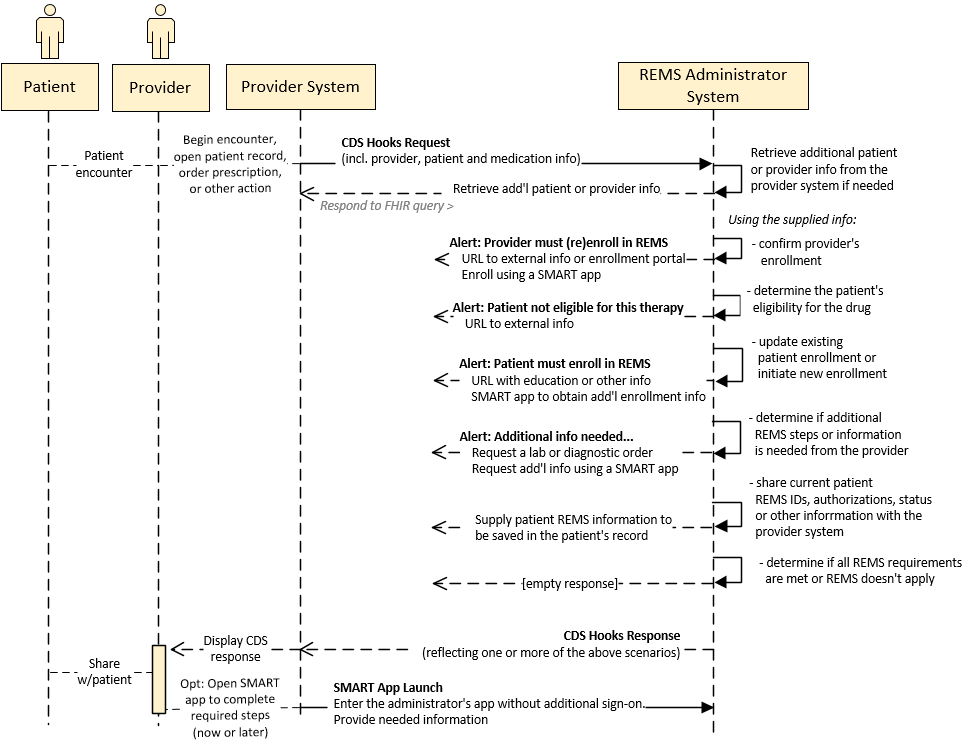
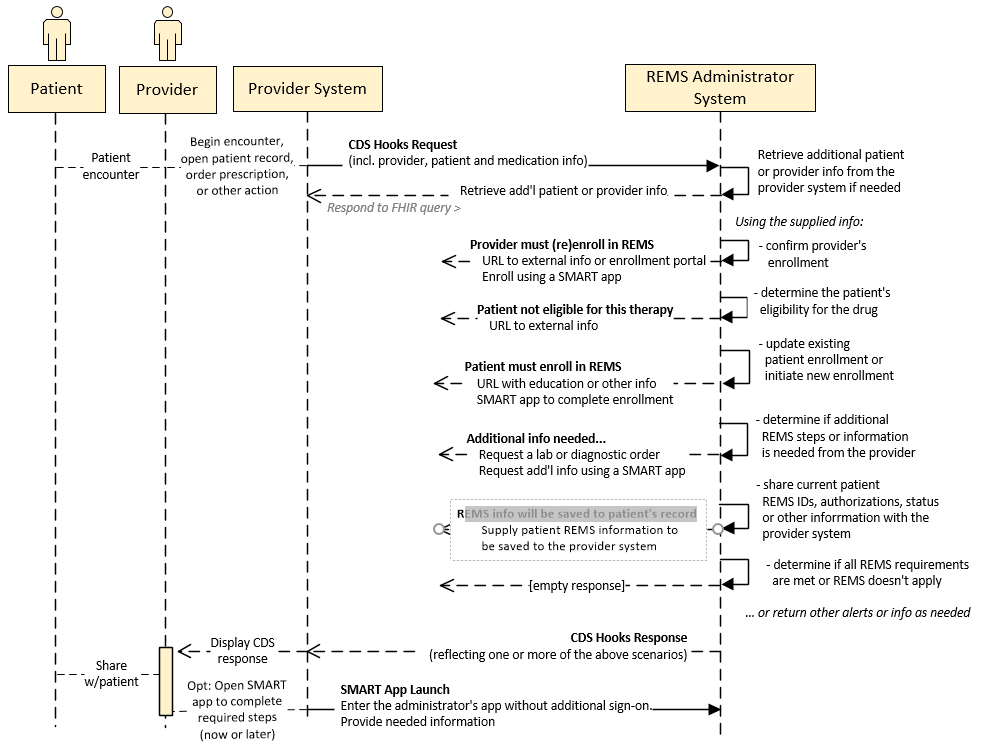
Use case edits

Changed region(s): [[0.0, 0.0, 0.9826, 1.0]]

diff --git a/input/pagecontent/use-cases.md b/input/pagecontent/use-cases.md
@@ -2,14 +2,24 @@ _See [Participant Roles and Needs](roles.html) for descriptions of the actors an
 
 <p></p>
 
-#### Note Regarding REMS Program and Scenario Variations
-REMS programs impose differing requirements on providers and patients. In some cases, patients must enroll in the program and assert their understanding of the potential medication risks and commit to certain behaviors before starting treatment. Other REMS programs are limited to providing educational information to the patient. Others require prescriber training and certification.
+### Use Case Context
+The use case scenarios described in this section reflect a range of REMS program requirements and treatment situations and two different system contexts, as described below.
 
-Likewise, the needs of a particular treatment situation may differ from others. For example, the applicable REMS program may require providers to train and certify before prescribing the medication, but the particular prescriber previously completed those steps through an offline process.
+#### REMS Program Requirements and Variations
+REMS requirements for providers, patients and other participants differ by drug:
+- In some cases, patients must enroll in the program and assert their understanding of the potential medication risks and commit to certain behaviors before starting treatment. 
+- Other REMS programs are limited to providing educational information to the patient. 
+- Some, but not all, REMS programs require prescribers or pharmacists to complete training and enrollment steps before treating a patient with the drug.
+- Some REMS programs require labs or other diagnostics to be performed prior to or during treatment.
+- REMS programs require varying levels of coordination with the REMS Administrator on treatment activities.
 
-The scenario descriptions in this section include aspects that won't apply to all REMS programs or treatment situations. The corresponding FHIR approaches are intended to be applied if and when they fit a particular medication's program.
+In addition, real world treatment situations can differ due to other factors. For example: 
+- One prescriber may complete their training and enrollment for a REMS program through an offline process in advance of treating patients with the drug, versus another prescriber that learns of the enrollment requirement while prescribing the drug the first time
+- REMS requirements that apply when starting the patient's initial therapy may or may not be required during subsequent rounds of therapy.
 
-#### System Contexts
+As a result, the scenario descriptions in this section will include aspects that don't apply to all REMS programs or treatment situations. The [guide's FHIR approaches](architecture.html) are intended to be applied if and when they fit a particular medication's program and applicable workflow conditions.
+
+#### Provider System Contexts - Within the Provider System vs Standalone App
 The scenarios below may be encountered in two different system contexts, where the provider is either:
 - performing a patient care activity using their EHR, during which the EHR connects with the REMS Administrator system to notify it of the care event, provide patient information and/or request program information
 - visiting the REMS Administrator's external web application directly--outside of their EHR--and the application retrieves information from the EHR to support its workflow.
@@ -18,88 +28,121 @@ This guide recommends initiating exchanges with the REMS Administrator from with
 
 However, there are situations where the ordering of a REMS drug may involve steps prior to the provider entering the EHR's order flow or where initiating a REMS interaction may not be able to be initiated based on EHR activities. In these cases, the interaction between the REMS Administrator system and the EHR may be initiated from outside the EHR (using standalone SMART launch).
 
-### Prescriber Focused System Scenarios
-As introduced in [Participants and Roles](roles.html), prescribers need a way to more easily interact with the REMS Administrator during treatment. The following scenarios illustrate how those needs fit into patient care events.
+<p></p>
+
+### Scenario One: Prescriber and REMS Administrator interact from within the provider system workflow
+When seeing a patient, the prescriber decides to prescribe a medication that has a REMS program. At an appropriate point in the workflow (e.g., when the prescriber starts creating the medication order, at the start of a related encounter, etc.), the provider system connects with the REMS Administrator system and enables the prescriber to interact with it. 
+
+At the start of this interaction, the provider system supplies patient, provider and medication information to the REMS Administrator. 
+- This step is accomplished using a CDS Hooks call triggered by an appropriate "hook" event in the provider workflow such as "order-select". 
+- "Prefetch" data containing Practitioner, Patient and MedicationRequest FHIR resources is included in the request.
+
+<p></p>
+
+Depending on the drug and other variables described in the previous section, the REMS Administrator system may respond in a variety of ways, including but not limited to the following (using CDS response "cards" or "system actions").
+
+<p></p>
+
+Following the REMS Administrator's response, the provider system presents returned alerts to the prescriber and enables them to follow links to external information or to launch a returned SMART app to complete a step such as patient enrollment.
+
+If a SMART app link is returned, the prescriber or staff launches returned app from the notification, with data pre-filled from the EHR where available in the patient's or prescriber's records as applicable. The prescriber reviews the pre-filled data, makes any adjustments required as well as filling in any additional required information and completes the app's steps.
+
+Below are possible response variations. 
+
+<p></p>
+
+#### Notify the prescriber they must complete REMS program training or enrollment before prescribing the medication
+And optionally...
+
+  - provide a URL to an external enrollment portal or training material
+  - provide a SMART app in which the prescriber enrolls (presented within their provider system's workflow)
+    
+#### Indicate that the patient is not eligible for the proposed therapy
+In addition, the response may include a URL link to additional related information
+
+####  Alert the provider of patient requirements, which may include education or enrollment into the REMS program
+Optionally include...
+  - a URL where education or other info can be found
+  - a SMART app in which to complete the patient's enrollment
+
+#### Request additional information to satisfy a REMS requirement, such as a lab result
+Optionally:
+  - Request a lab or diagnostic order using a "recommendation" card
+  - Request additional info using a SMART app
+
+#### Supply patient REMS program information
+The REMS Administrator may return information about the patient's participation in the REMS program to be saved to the patient's record in the provider system. This can be accomplished using a CDS "system action" that saves a note containing the information in the form of a FHIR DocumentReference.
+
+#### Return a "silent" response
+If the REMS Administrator does not wish to present any information or requests to the prescriber, it may return an empty response. In this scenario, the provider system will not interrupt the provider's workflow with REMS-related information.
+
+#### Return other alerts or information as needed
+This implementation guide does not constrain information or requests that a REMS Administrator may return in its CDS Hooks response. Other alerts, resources or information gathering steps may be implemented, as needed.
+
+<p></p>
+
+<div>
+<figure class="figure">
+<figcaption class="figure-caption"><strong>Figure: REMS Within the Provider System Workflow - Examples</strong></figcaption>
+  <p>
+  <img src="ehr-launch-sequence.png" style="float:none">  
+  </p>
+</figure>
+</div>
+<p></p>
+
+<p></p>
+
+### Scenario Two: Provider using an external REMS Administrator application
+In this variation, the provider accesses an external REMS Administrator application from outside the EHR. In a process facilitated by the provider, the external application retrieves patient, provider and medication information from the EHR using standalone SMART launch.
+
+During that application's workflow: 
+- The provider selects the EHR used in the facility where the provider sees the patient
+- The external REMS Administrator system initiates the "standalone SMART app launch" process with the selected provider system
+- The provider interacts with the provider system during launch, signing in and optionally, locating the patient 
+- The provider system grants the external system access to appropriate patient data
+- The external system retrieves patient, provider, medication and other clinical information as needed to support the associated REMS program.
+ - Using the retrieved information, the external REMS Administrator system may:
+   - determine the patient's eligibility for treatment using the drug
+   - update its existing patient enrollment or initiate a new enrollment
+   - determine if additional REMS steps or information is needed from the provider
+   - share current patient REMS IDs, authorizations, status or other information with the provider system.
+
+<p></p>
+
+<div>
+<figure class="figure">
+<figcaption class="figure-caption"><strong>Figure: REMS Within the Provider System Workflow - Examples</strong></figcaption>
+  <p>
+  <img src="standalone-launch-sequence.png" style="float:none">  
+  </p>
+</figure>
+</div>
+<p></p>
 
 
-#### Scenario: Prescriber EHR initiates patient enrollment during patient care
-During the course of evaluating a patient, the prescriber decides to prescribe a medication that has a REMS program. At an appropriate point in the process (e.g., when the prescriber starts creating the medication request within their EHR, at the start of a related encounter, etc.), the EHR contacts the REMS Administration system using a CDS Hooks call. 
-- During this interaction, the EHR supplies patient, provider and medication information to the REMS Administrator.
+### Scenarios not covered in this guide
+Support for the following scenarios is not included in this version of the implementation guide. They may be covered in future versions.
 
-The REMS Administrator responds in one or more of the following ways:
-- No further program information or requirements need to be shared
-- The prescriber must complete REMS program certification before prescribing the medication
-- The patient must enroll in a REMS program before starting on the medication
-- Additional program information is available
-- No REMS program applies to the event
-
-#### Alternative Scenario: Provider begins patient enrollment from an external REMS Administrator application
-In this variation, the provider accesses an external REMS Administrator application from outside the EHR. During that application's workflow, it retrieves patient, provider and medication information from the EHR using standalone SMART launch.
-
-#### Alternative Follow-On Flows
-##### Prescriber Certification Required
-If the REMS Administrator determines that the prescriber is not currently registered for the REMS program, its CDS Hooks response contains a notification and links to training material and a SMART on FHIR application or other means by which certification can be completed. 
-
-The EHR presents the alert notifying the provider that they will need to certify in the REMS program before the order can be dispensed, along with the supplied information and app links.
-
-If a SMART app link is returned, the prescriber or staff launches returned app from the notification, with data pre-filled from the EHR where available in the prescriber's record. The prescriber reviews the pre-filled data, makes any adjustments required as well as filling in any gaps in the forms and submits the certification information to the REMS Administrator.
-
-
-##### Patient Enrollment
-If the REMS Administrator determines that the patient must enroll in the REMS program, its CDS Hooks response contains a notification and links to patient material and a SMART on FHIR application or other means by which enrollment can be completed. 
-
-The EHR presents the alert notifying the provider that the patient must enroll in the REMS program before they can start the medication, along with the supplied information and app links.
-
-If a SMART app link is returned, the prescriber or staff launches returned app from the notification, with data pre-filled from the EHR where available in the patient's record. The patient reviews the pre-filled data, makes any adjustments required as well as filling in any gaps in the forms and submits the data back to the REMS Administrator to enroll on the REMS program.
-
-##### Additional Program Information Is Available
-The REMS Administrator includes links to any additional prescriber or patient-focused materials in its CDS Hooks response, which the EHR presents to the prescriber.
-
-##### REMS Doesn't Apply or No Information Needed
-If the REMS Administrator determines that the medication being considered does not have a REMS program, or if all program requirements have been satisfied by the prescriber and patient, it returns a CDS Hooks response indicating that. 
-
-In response, the EHR does not present any alerts or information to the prescriber.
-
-<br/><br/>
-
-#### Scenario Two: Share Information During Patient Treatment  
-Upon care events in the patient's treatment, for example when scheduling a follow-up appointment, at the start of an encounter, or at a periodic monitoring interval, the EHR notes that the patient is on a REMS medication and calls the REMS administration system.
-
-The REMS Administrator evaluates the particular event or timing for periodic patient updates and determines whether there is a need for the patient's data to be re-evaluated and responds in one or more of the following ways:
- 
-- Additional or updated patient clinical information is required, or the prescriber must provide a clinical assessment or status statement
-- No additional information is needed
-
-##### Additional Clinical or Status Information is Required
-If the REMS Administrator requires patient clinical information or other assessments from the provider, the EHR presents the alert notifying the provider of the needed information.
-
-If a SMART app link is returned, the prescriber or staff launches returned app from the notification, with data pre-filled from the EHR where available in the patient's record. The prescriber reviews, adds any additional information and submits the data back to the REMS Administrator.
-
-
-##### REMS Doesn't Apply or No Information Needed
-If the REMS Administrator determines that the medication being considered does not have a REMS program, or if all program requirements have been satisfied by the prescriber and patient, it returns a CDS Hooks response indicating that. 
-
-In response, the EHR does not present any alerts or information to the prescriber.
-
-<br/><br/>
-
-#### Other Patient-Focused Scenarios
-###### Patient Enrollment Via EHR Portal
+##### Patient Enrollment Via EHR Portal
 A provider prescribes a medication that has a REMS for a patient and fills out the required patient enrollment forms. The patient receives a notification to attest that they have received any required education/documentation required by the REMS as well as the accuracy of the information contained on the forms. 
 
 The patient logs into their providers patient portal and launches an application to fill out the required information and submits the results back to the REMS Administration system.
 
-<br/><br/> 
+<p></p>
 
 #### HCS/Healthcare institutions
 ##### Validate Pharmacy is Registered 
 A provider prescribes a medication that has a REMS to a patient. The provider asks the patient what their preferred pharmacy is.  Before sending the prescription to the pharmacy, the ERM queries the REMS Administration systems to determine if the pharmacy is enrolled on the REMS if required and can dispense the medication.  The REMS Administration system sends back a notification stating if the pharmacy can dispense the medication.  An alert is displayed in the uI of the EMR if the pharmacy is incapable of dispensing the medication. 
 
-<br/><br/>
+<p></p>
+<p></p>
 
-_[Frank left off here on Aug 11]_
+<hr>
 
-<br/><br/>
+### Additional content to be incorporated
+_The material below is yet to be incorporated into this page._
+
 
 #### Provider/Patient Workflow
 
